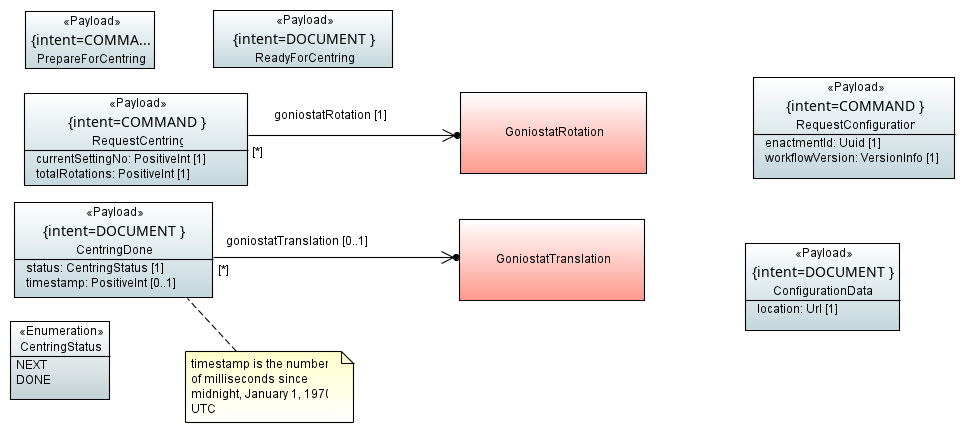
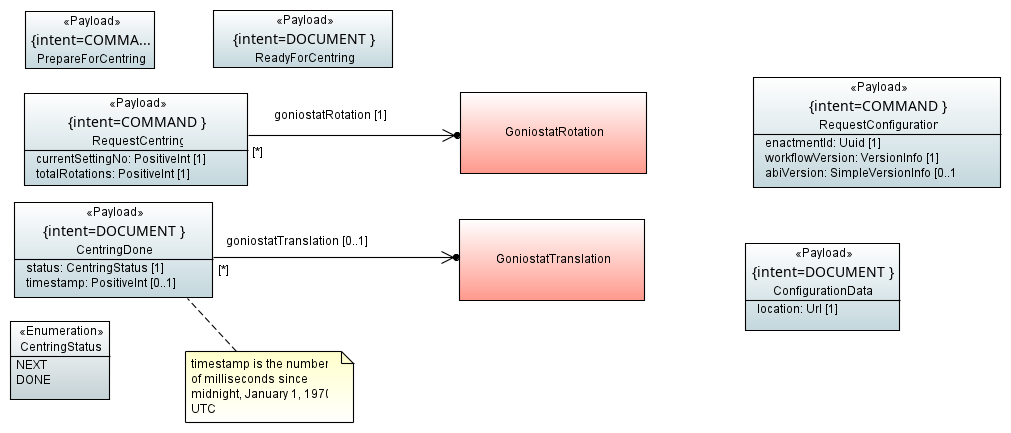
Prep for conveying ABI version to BCS

diff --git a/com.globalphasing.sdcp.abstract_beamline/src/main/java/co/gphl/beamline/v2_unstable/instrumentation/RequestConfiguration.java b/com.globalphasing.sdcp.abstract_beamline/src/main/java/co/gphl/beamline/v2_unstable/instrumentation/RequestConfiguration.java
@@ -16,6 +16,7 @@ package co.gphl.beamline.v2_unstable.instrumentation;
 import java.util.UUID;
 
 import co.gphl.beamline.v2_unstable.Payload;
+import co.gphl.beamline.v2_unstable.types.SimpleVersionInfo;
 import co.gphl.beamline.v2_unstable.types.VersionInfo;
 
 /**
@@ -26,4 +27,5 @@ public interface RequestConfiguration extends Payload {
 
     UUID getEnactmentId();
     VersionInfo getWorkflowVersion();
+    SimpleVersionInfo getAbiVersion();
 }
